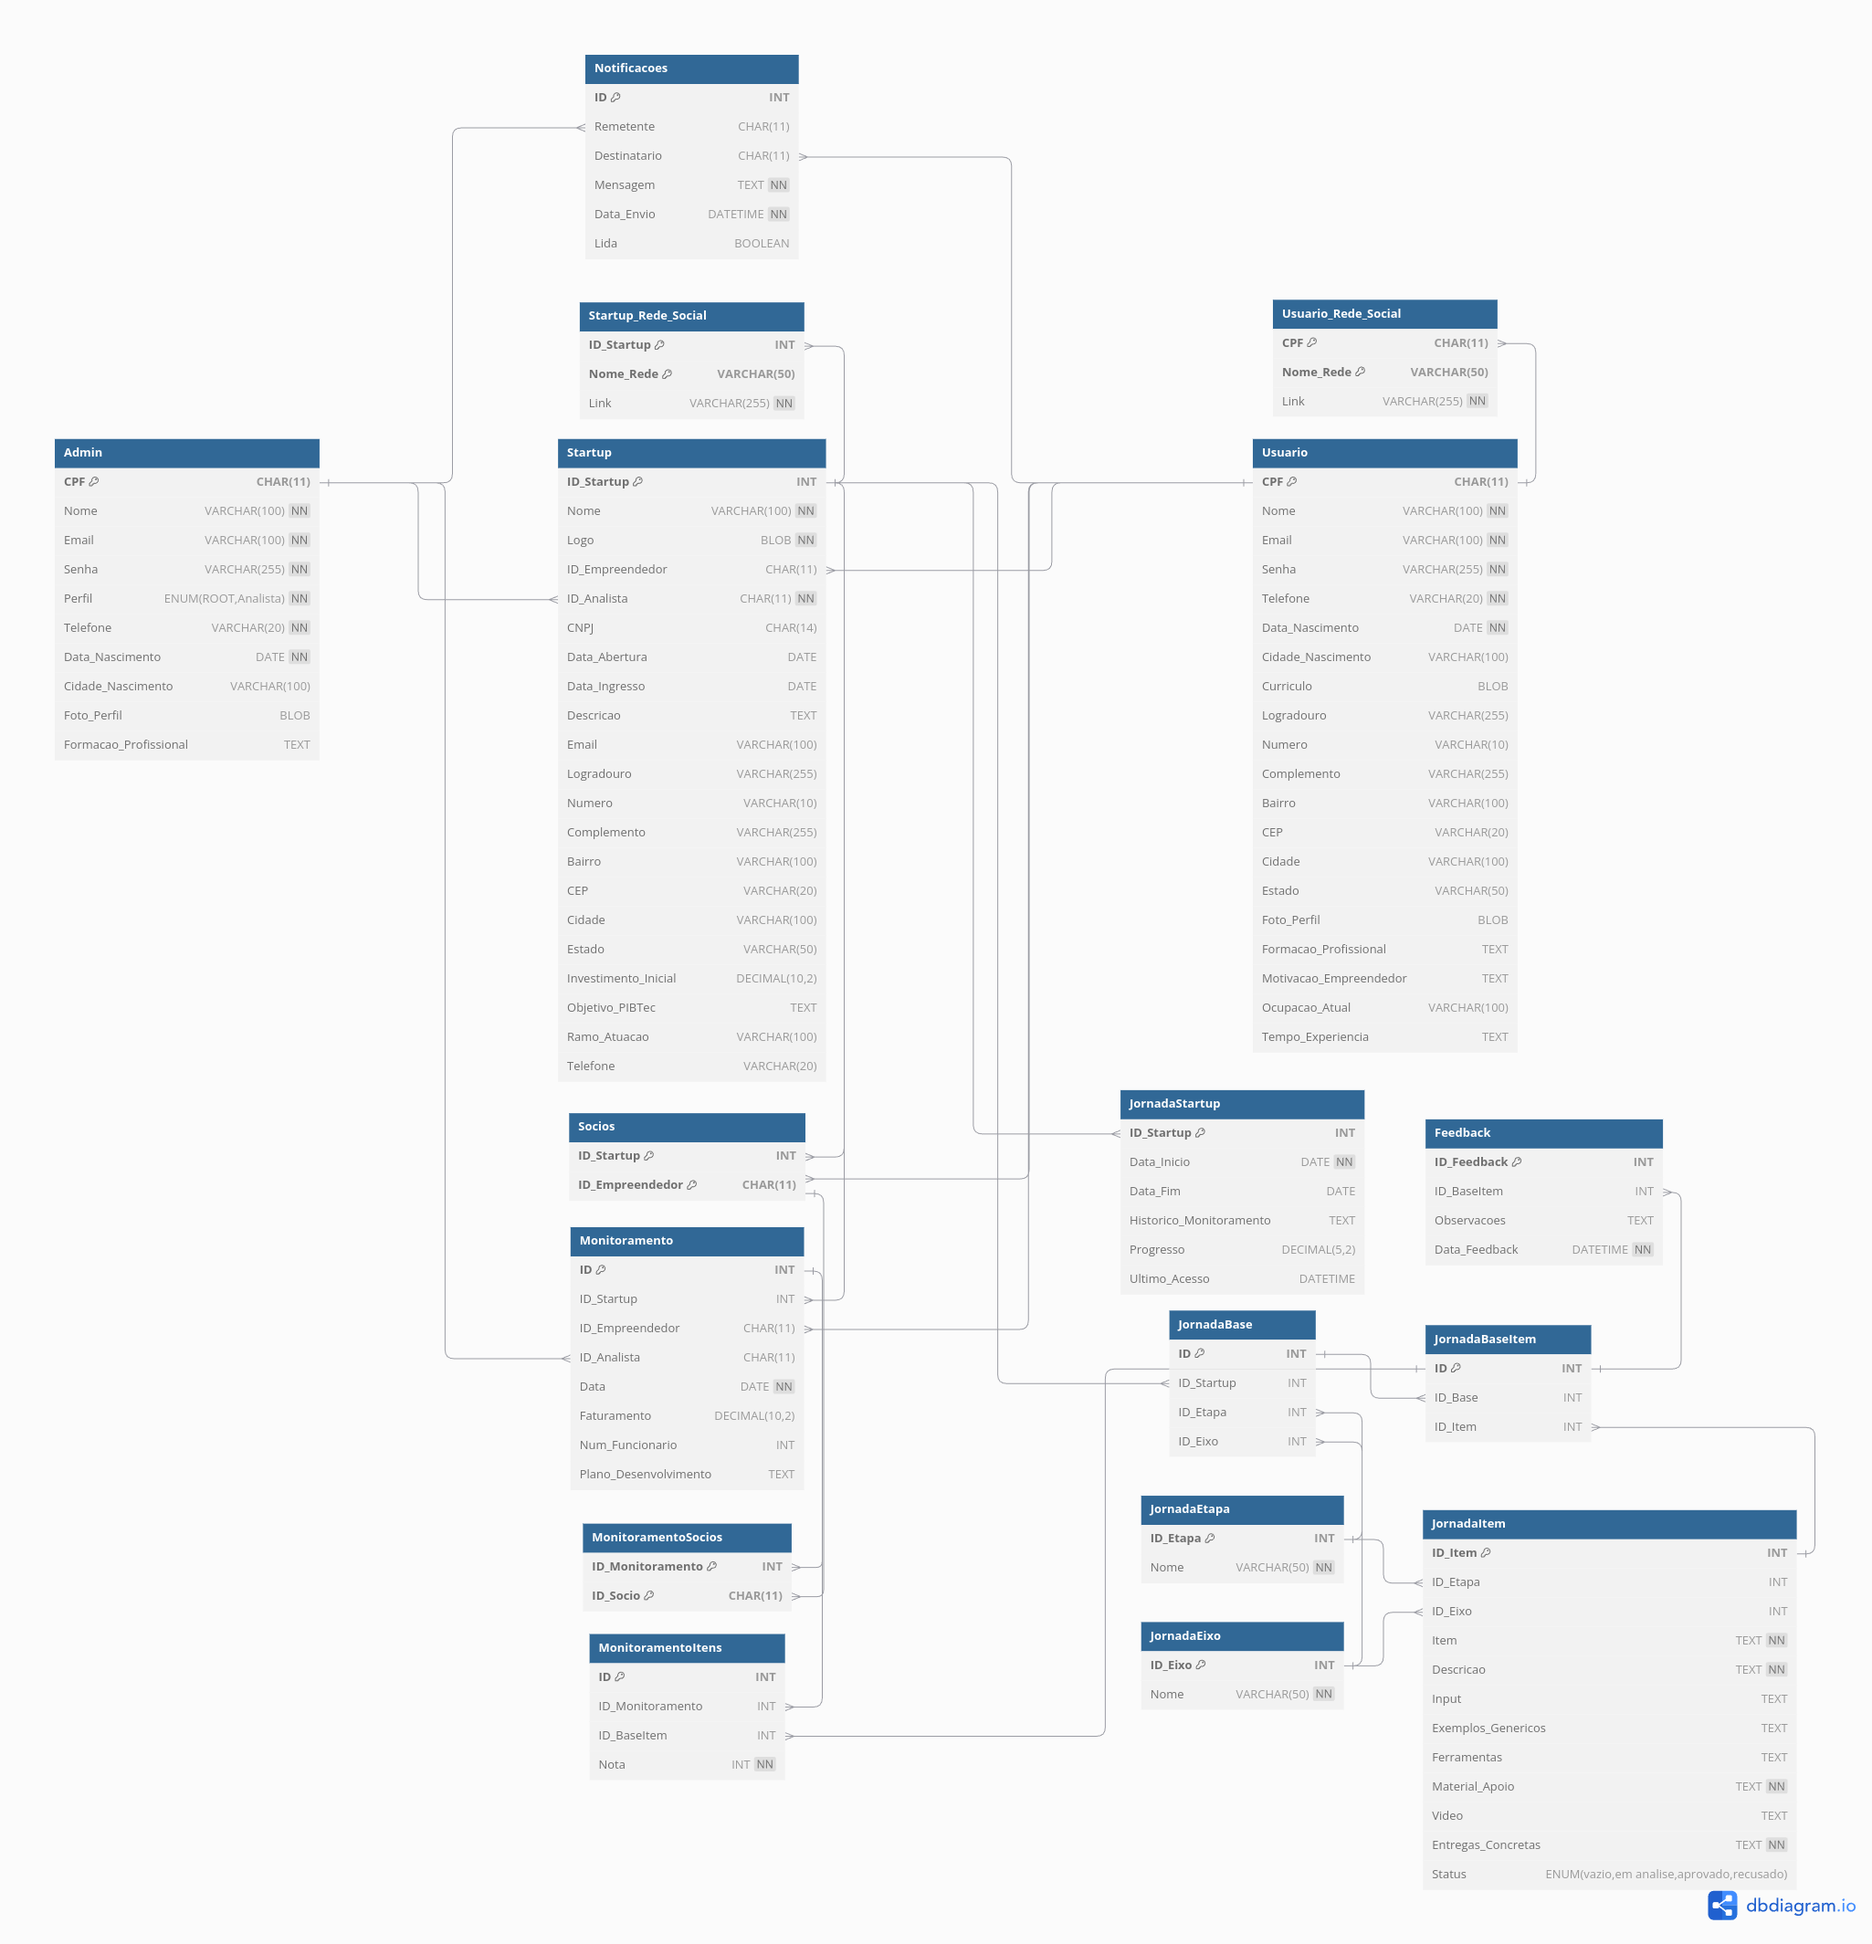
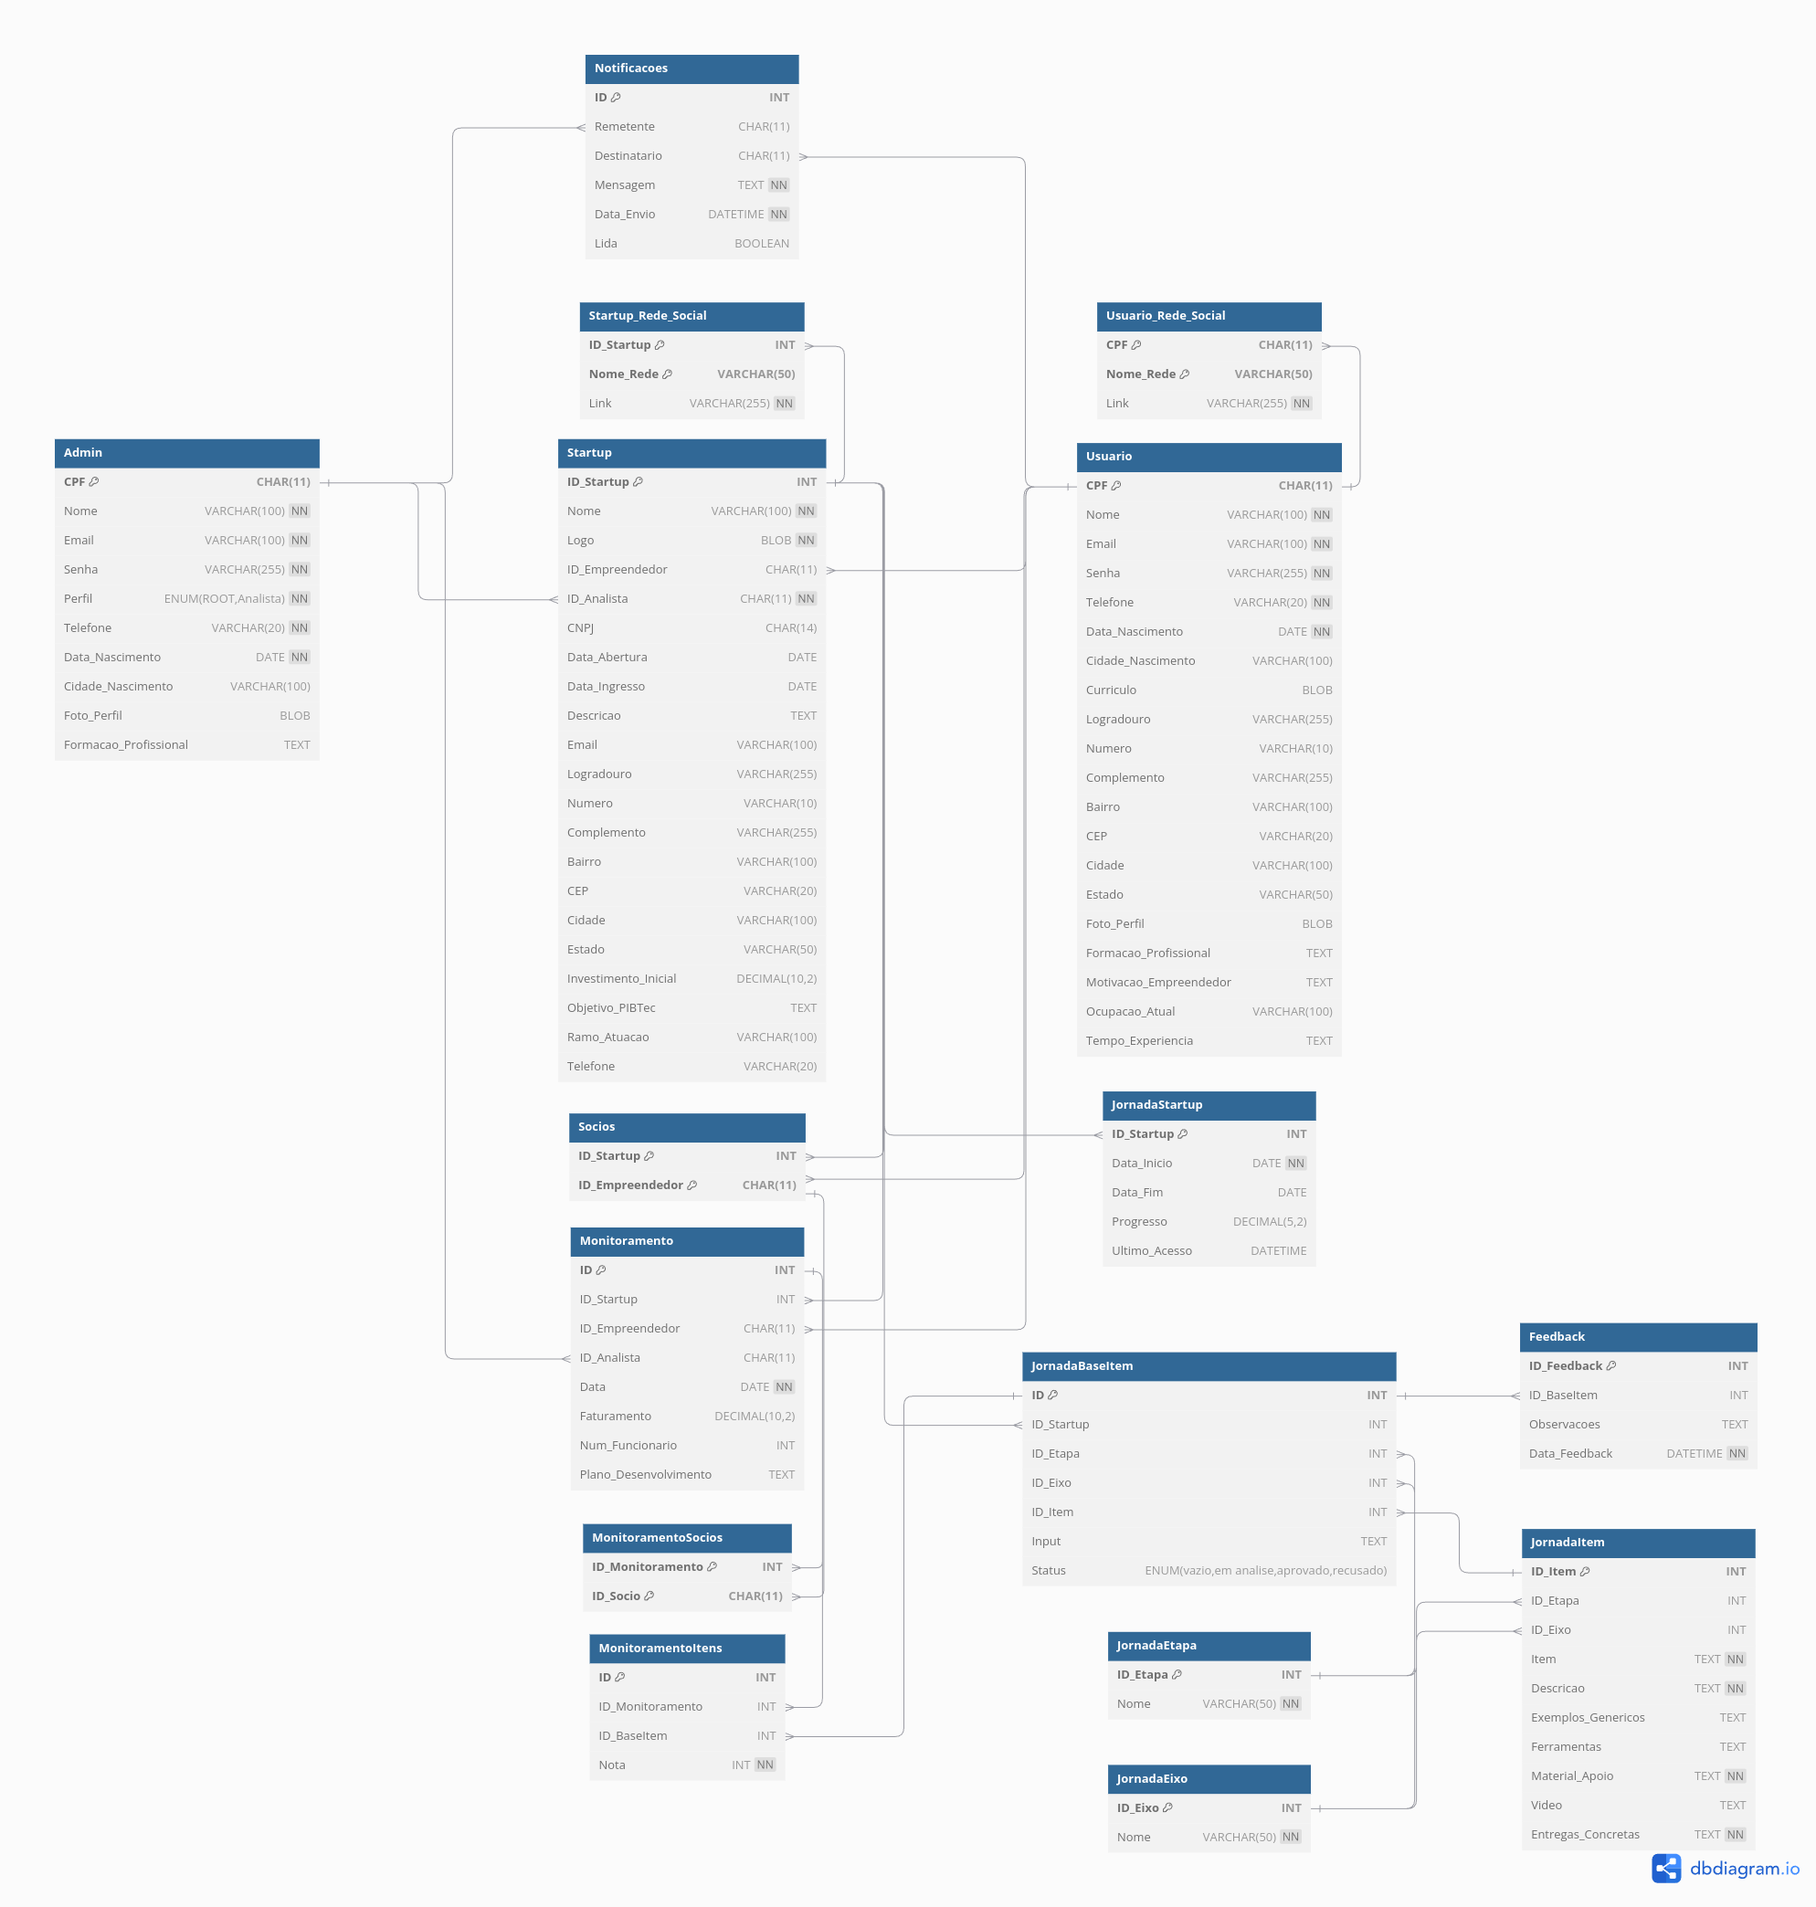
documentacao do banco atualizada

diff --git a/.github/docs/bancoDeDados.md b/.github/docs/bancoDeDados.md
@@ -103,35 +103,27 @@
 
 ## Tabela: **JornadaStartup**
 
-| Campo                   | Tipo         | Descrição                                                                | Restrição                     |
-| ----------------------- | ------------ | ------------------------------------------------------------------------ | ----------------------------- |
-| ID_Startup              | INT          | Identificador único da startup, chave estrangeira para a tabela Startup. | PK, FK -> Startup(ID_Startup) |
-| Data_Inicio             | DATE         | Data de início da jornada.                                               | NOT NULL                      |
-| Data_Fim                | DATE         | Data de fim da jornada.                                                  | NULL                          |
-| Historico_Monitoramento | TEXT         | Histórico de monitoramento da jornada.                                   | NULL                          |
-| Progresso               | DECIMAL(5,2) | Progresso da jornada em porcentagem.                                     | NULL                          |
-| Ultimo_Acesso           | DATETIME     | Data e hora do último acesso à jornada.                                  | NULL                          |
-
----
-
-## Tabela: **JornadaBase**
-
-| Campo      | Tipo | Descrição                 | Restrição                    |
-| ---------- | ---- | ------------------------- | ---------------------------- |
-| ID         | INT  | Identificador único.      | PK, AUTO_INCREMENT           |
-| ID_Startup | INT  | Identificador da startup. | FK -> Startup(ID_Startup)    |
-| ID_Etapa   | INT  | Identificador da etapa.   | FK -> JornadaEtapa(ID_Etapa) |
-| ID_Eixo    | INT  | Identificador do eixo.    | FK -> JornadaEixo(ID_Eixo)   |
+| Campo         | Tipo         | Descrição                                                                | Restrição                     |
+| ------------- | ------------ | ------------------------------------------------------------------------ | ----------------------------- |
+| ID_Startup    | INT          | Identificador único da startup, chave estrangeira para a tabela Startup. | PK, FK -> Startup(ID_Startup) |
+| Data_Inicio   | DATE         | Data de início da jornada.                                               | NOT NULL                      |
+| Data_Fim      | DATE         | Data de fim da jornada.                                                  | NULL                          |
+| Progresso     | DECIMAL(5,2) | Progresso da jornada em porcentagem.                                     | DEFAULT 0                     |
+| Ultimo_Acesso | DATETIME     | Data e hora do último acesso à jornada.                                  | NULL                          |
 
 ---
 
 ## Tabela: **JornadaBaseItem**
 
-| Campo   | Tipo | Descrição              | Restrição                  |
-| ------- | ---- | ---------------------- | -------------------------- |
-| ID      | INT  | Identificador único.   | PK, AUTO_INCREMENT         |
-| ID_Base | INT  | Identificador da base. | FK -> JornadaBase(ID)      |
-| ID_Item | INT  | Identificador do item. | FK -> JornadaItem(ID_Item) |
+| Campo      | Tipo                                                | Descrição                                                                            | Restrição                    |
+| ---------- | --------------------------------------------------- | ------------------------------------------------------------------------------------ | ---------------------------- |
+| ID         | INT                                                 | Identificador único.                                                                 | PK, AUTO_INCREMENT           |
+| ID_Startup | INT                                                 | Identificador da startup.                                                            | FK -> Startup(ID_Startup)    |
+| ID_Etapa   | INT                                                 | Identificador da etapa.                                                              | FK -> JornadaEtapa(ID_Etapa) |
+| ID_Eixo    | INT                                                 | Identificador do eixo.                                                               | FK -> JornadaEixo(ID_Eixo)   |
+| ID_Item    | INT                                                 | Identificador do item.                                                               | FK -> JornadaItem(ID_Item)   |
+| Input      | TEXT                                                | Arquivo de entrada para o item da jornada.                                           | NULL                         |
+| Status     | ENUM('vazio', 'em analise', 'aprovado', 'recusado') | Status do item da jornada, pode ser 'vazio', 'em analise', 'aprovado' ou 'recusado'. | DEFAULT 'vazio'              |
 
 ---
 
@@ -155,20 +147,18 @@
 
 ## Tabela: **JornadaItem**
 
-| Campo              | Tipo                                                | Descrição                                                                            | Restrição                    |
-| ------------------ | --------------------------------------------------- | ------------------------------------------------------------------------------------ | ---------------------------- |
-| ID_Item            | INT                                                 | Identificador único do item da jornada.                                              | PK, AUTO_INCREMENT           |
-| ID_Etapa           | INT                                                 | Identificador único da etapa, chave estrangeira para a tabela JornadaEtapa.          | FK -> JornadaEtapa(ID_Etapa) |
-| ID_Eixo            | INT                                                 | Identificador único do eixo, chave estrangeira para a tabela JornadaEixo.            | FK -> JornadaEixo(ID_Eixo)   |
-| Item               | TEXT                                                | Descrição do item da jornada.                                                        | NOT NULL                     |
-| Descricao          | TEXT                                                | Descrição detalhada do item da jornada.                                              | NOT NULL                     |
-| Input              | TEXT                                                | Arquivo de entrada para o item da jornada.                                           | NULL                         |
-| Exemplos_Genericos | TEXT                                                | Exemplos genéricos relacionados ao item da jornada.                                  | NULL                         |
-| Ferramentas        | TEXT                                                | Ferramentas recomendadas para o item da jornada.                                     | NULL                         |
-| Material_Apoio     | TEXT                                                | Material de apoio para o item da jornada.                                            | NOT NULL                     |
-| Video              | TEXT                                                | Vídeo relacionado ao item da jornada.                                                | NULL                         |
-| Entregas_Concretas | TEXT                                                | Entregas concretas esperadas para o item da jornada.                                 | NOT NULL                     |
-| Status             | ENUM('vazio', 'em analise', 'aprovado', 'recusado') | Status do item da jornada, pode ser 'vazio', 'em analise', 'aprovado' ou 'recusado'. | DEFAULT 'vazio'              |
+| Campo              | Tipo | Descrição                                                                   | Restrição                    |
+| ------------------ | ---- | --------------------------------------------------------------------------- | ---------------------------- |
+| ID_Item            | INT  | Identificador único do item da jornada.                                     | PK, AUTO_INCREMENT           |
+| ID_Etapa           | INT  | Identificador único da etapa, chave estrangeira para a tabela JornadaEtapa. | FK -> JornadaEtapa(ID_Etapa) |
+| ID_Eixo            | INT  | Identificador único do eixo, chave estrangeira para a tabela JornadaEixo.   | FK -> JornadaEixo(ID_Eixo)   |
+| Item               | TEXT | Descrição do item da jornada.                                               | NOT NULL                     |
+| Descricao          | TEXT | Descrição detalhada do item da jornada.                                     | NOT NULL                     |
+| Exemplos_Genericos | TEXT | Exemplos genéricos relacionados ao item da jornada.                         | NULL                         |
+| Ferramentas        | TEXT | Ferramentas recomendadas para o item da jornada.                            | NULL                         |
+| Material_Apoio     | TEXT | Material de apoio para o item da jornada.                                   | NOT NULL                     |
+| Video              | TEXT | Vídeo relacionado ao item da jornada.                                       | NULL                         |
+| Entregas_Concretas | TEXT | Entregas concretas esperadas para o item da jornada.                        | NOT NULL                     |
 
 ---
 
@@ -229,3 +219,42 @@
 | Lida         | BOOLEAN  | Indica se a notificação foi lida (TRUE) ou não (FALSE).       | DEFAULT FALSE            |
 
 ---
+
+Claro, aqui está a documentação da procedure `CriarJornadaStartup` para o dicionário de dados:
+
+## Procedure: CriarJornadaStartup
+
+### Descrição
+A procedure `CriarJornadaStartup` é responsável por criar uma nova jornada para uma startup específica. Ela insere uma nova entrada na tabela **JornadaStartup** e copia os itens da jornada para a tabela **JornadaBaseItem**, associando-os à startup.
+
+### Parâmetros de Entrada
+- `p_ID_Startup` (INT): Identificador único da startup.
+- `p_Data_Inicio` (DATE): Data de início da jornada.
+
+### Operações Realizadas
+1. **Inserção na Tabela JornadaStartup:**
+   - Insere uma nova linha na tabela **JornadaStartup** com os seguintes valores:
+     - `ID_Startup`: Identificador da startup fornecido como parâmetro.
+     - `Data_Inicio`: Data de início da jornada fornecida como parâmetro.
+     - `Data_Fim`: Definido como `NULL`.
+     - `Progresso`: Definido como `0`.
+     - `Ultimo_Acesso`: Definido como `NULL`.
+
+2. **Cópia dos Itens da Jornada para JornadaBaseItem:**
+   - Copia os itens da tabela **JornadaItem** para a tabela **JornadaBaseItem**, associando-os à startup. Os valores copiados são:
+     - `ID_Item`: Identificador do item da jornada.
+     - `ID_Startup`: Identificador da startup fornecido como parâmetro.
+     - `ID_Etapa`: Identificador da etapa do item.
+     - `ID_Eixo`: Identificador do eixo do item.
+     - `Input`: Definido como `NULL`.
+     - `Status`: Definido como `'vazio'`.
+
+### Exemplo de Uso
+
+Para criar uma nova jornada para a startup com `ID_Startup = 1` e data de início `2025-01-01`, você pode chamar a procedure da seguinte forma:
+
+```sql
+CALL CriarJornadaStartup(1, '2025-01-01');
+```
+
+OBS: Sempre utilizar o padrão `YYYY-MM-DD` para campos do tipo `DATE`.
